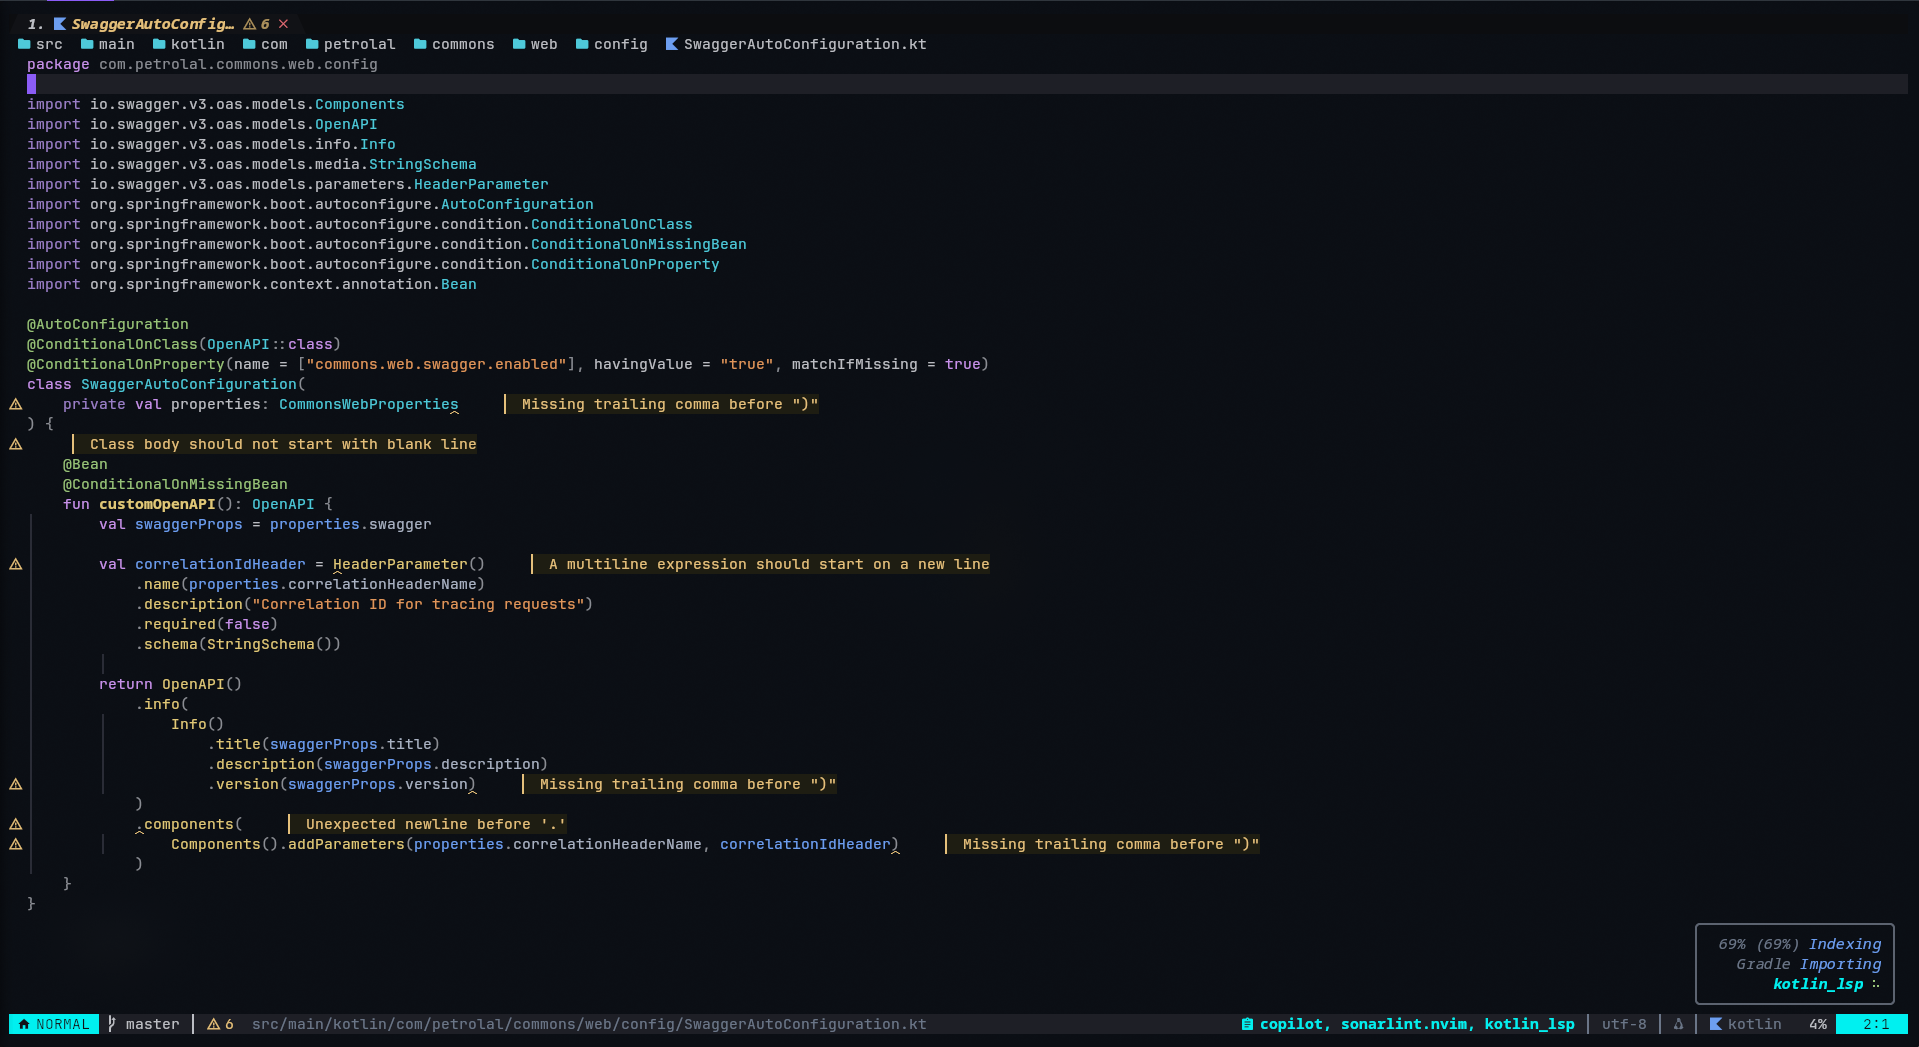
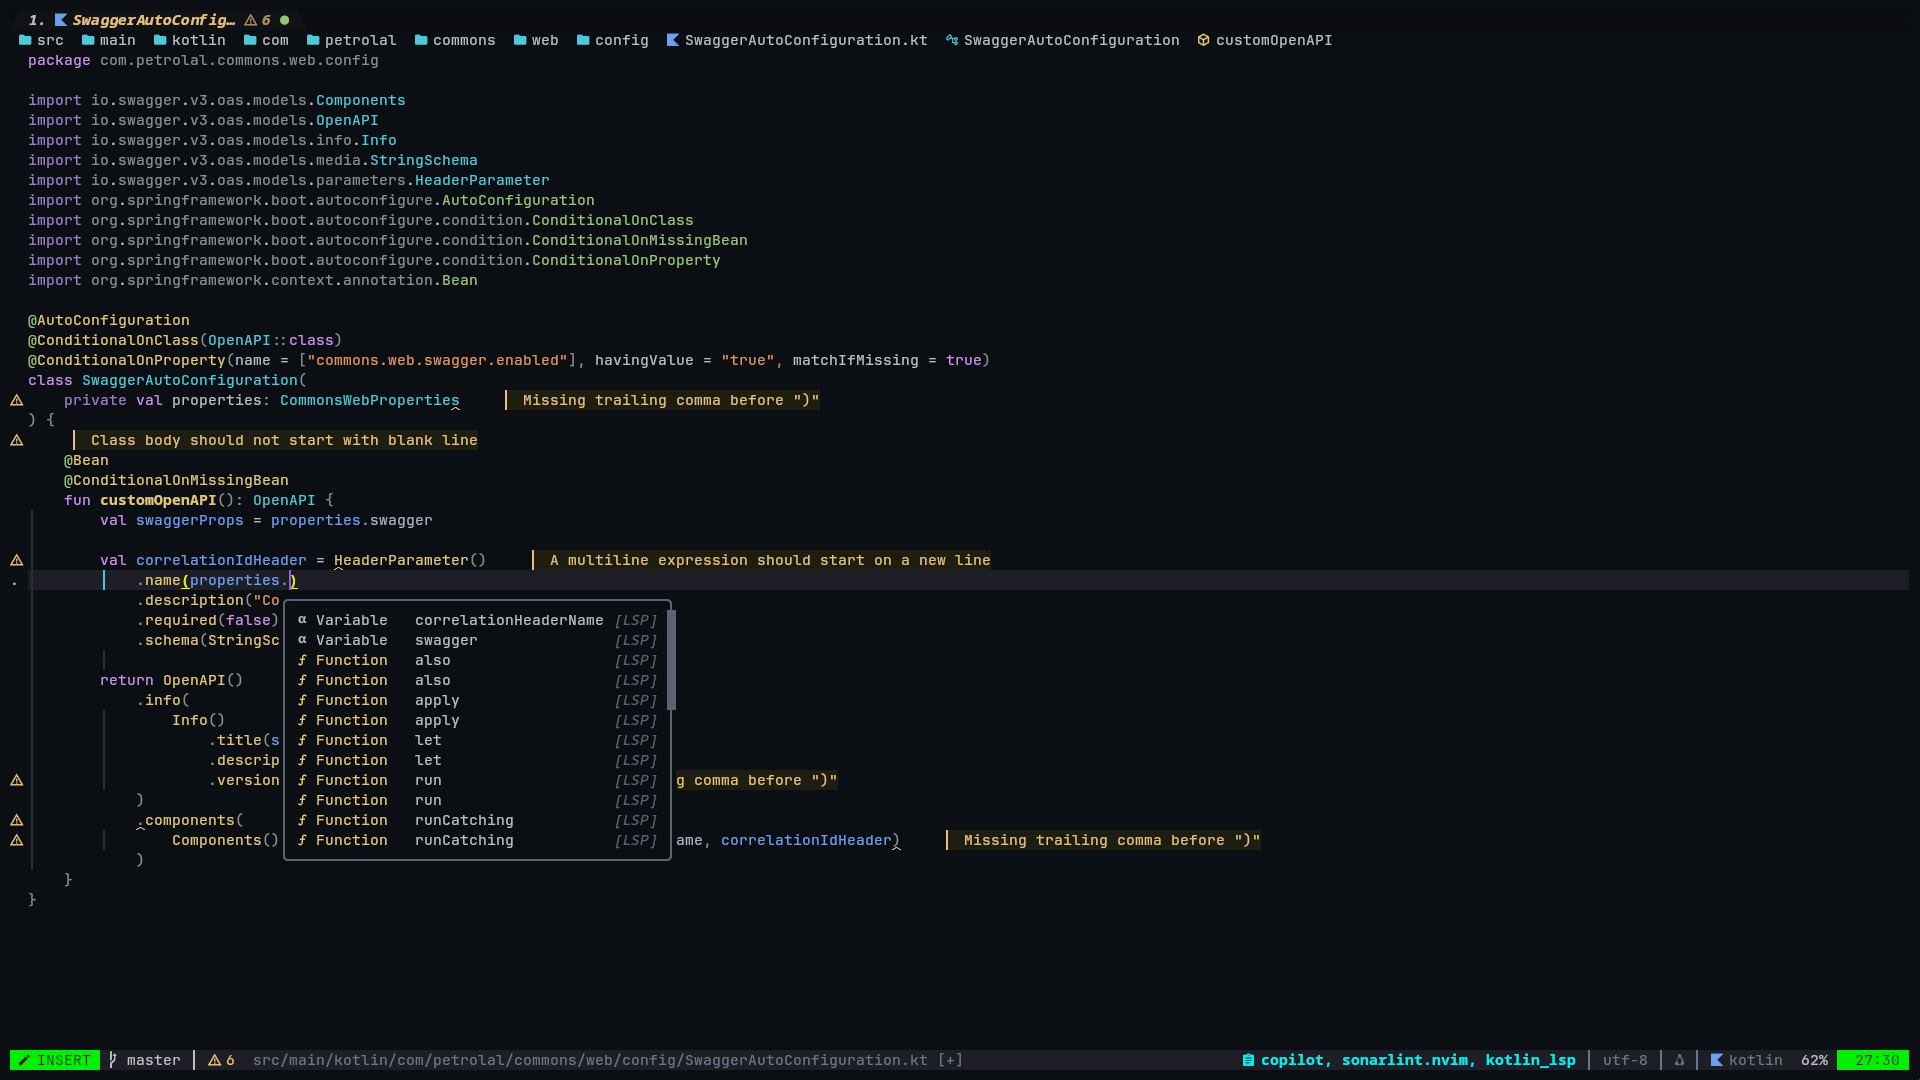
docs: update readme and add screenshots

diff --git a/README.md b/README.md
@@ -8,10 +8,9 @@
   │      ██  \___|  \__ | |  \__,_| \__/ ██ ██     │  
   │                                                │  
   ╰────────────────────────────────────────────────╯  
-               JVM & CLOUD-NATIVE ECOSYSTEM
   </pre>
 </div>
-<h1 align="center">TetraVim</h1>
+<h1 align="center">JVM & CLOUD-NATIVE ECOSYSTEM</h1>
 
 <h4 align="center">
   <a href="#-installation">Install</a>
@@ -47,13 +46,10 @@
 
 ## 🌟 Preview
 
-### 🚀 Dashboard & Overview
 ![TetraVim Dashboard](docs/screenshots/dashboard.png)
 
-### ☕ Spring Boot & JVM Intelligence
 ![Spring Boot & LSP Intelligence](docs/screenshots/bean.png)
 
-### 📂 File Management with Oil
 ![Oil File Management](docs/screenshots/oil.png)
 
 ## ✨ Features
@@ -90,7 +86,7 @@
 
 - [Neovim ≥ 0.11](https://github.com/neovim/neovim/releases/tag/stable) <sup>[[1]](#1)</sup>
 - [Java JDK ≥ 17](https://adoptium.net/) (Required for JDTLS, Metals, Kotlin LS; Java 21+ supported) <sup>[[2]](#2)</sup>
-- [Nerd Fonts (v3.0+)](https://www.nerdfonts.com/font-downloads) (e.g. *JetBrainsMono Nerd Font*) <sup>[[3]](#3)</sup>
+- [Nerd Fonts (v3.0+)](https://www.nerdfonts.com/font-downloads) (e.g. _JetBrainsMono Nerd Font_) <sup>[[3]](#3)</sup>
 - [ripgrep](https://github.com/BurntSushi/ripgrep) and [fd](https://github.com/sharkdp/fd) (for live grep and picker search)
 - A C compiler (`gcc`, `clang`, or `cc`) & `make` (for Tree-sitter parsers and telescope-fzf-native)
 - [Git](https://git-scm.com/) (for plugin management via `lazy.nvim`)
@@ -183,20 +179,20 @@ nvim --headless -u ~/.config/nvim/init.lua -c "lua require('TetraVim.core.setup'
 
 `<leader>` is mapped to `Space`, `<localleader>` to `\`.
 
-| Keys | Description |
-| --- | --- |
-| `<leader>c` | Code & LSP actions (definition, references, rename, format, codelens) |
-| `<leader>j` | JVM platform controls (Spring beans, endpoints, build sync, test coverage) |
-| `<leader>o` | DevOps & Cloud actions (Terraform, Docker, Kubernetes, Ansible) |
-| `<leader>a` | API & Data tools (`<leader>ah` HTTP client, `<leader>ag` gRPC, `<leader>ad` DB explorer) |
-| `<leader>x` | Code quality & security (`<leader>xs` Sonar, `<leader>xv` CVE audit, `<leader>xt` Todo) |
-| `<leader>r` | Task runner & Overseer commands |
-| `<leader>e` | Open file explorer ([Oil.nvim](https://github.com/stevearc/oil.nvim)) |
-| `<leader>s` | Search & Pickers (files, live grep, buffers, symbols, marks) |
-| `<leader>ut` | Toggle background transparency |
-| `<leader>cb` | Open winbar breadcrumb symbol picker |
-| `[d` / `]d` | Jump to previous / next diagnostic |
-| `[e` / `]e` | Jump to previous / next error |
+| Keys         | Description                                                                              |
+| ------------ | ---------------------------------------------------------------------------------------- |
+| `<leader>c`  | Code & LSP actions (definition, references, rename, format, codelens)                    |
+| `<leader>j`  | JVM platform controls (Spring beans, endpoints, build sync, test coverage)               |
+| `<leader>o`  | DevOps & Cloud actions (Terraform, Docker, Kubernetes, Ansible)                          |
+| `<leader>a`  | API & Data tools (`<leader>ah` HTTP client, `<leader>ag` gRPC, `<leader>ad` DB explorer) |
+| `<leader>x`  | Code quality & security (`<leader>xs` Sonar, `<leader>xv` CVE audit, `<leader>xt` Todo)  |
+| `<leader>r`  | Task runner & Overseer commands                                                          |
+| `<leader>e`  | Open file explorer ([Oil.nvim](https://github.com/stevearc/oil.nvim))                    |
+| `<leader>s`  | Search & Pickers (files, live grep, buffers, symbols, marks)                             |
+| `<leader>ut` | Toggle background transparency                                                           |
+| `<leader>cb` | Open winbar breadcrumb symbol picker                                                     |
+| `[d` / `]d`  | Jump to previous / next diagnostic                                                       |
+| `[e` / `]e`  | Jump to previous / next error                                                            |
 
 ## 🗒 Links
 
